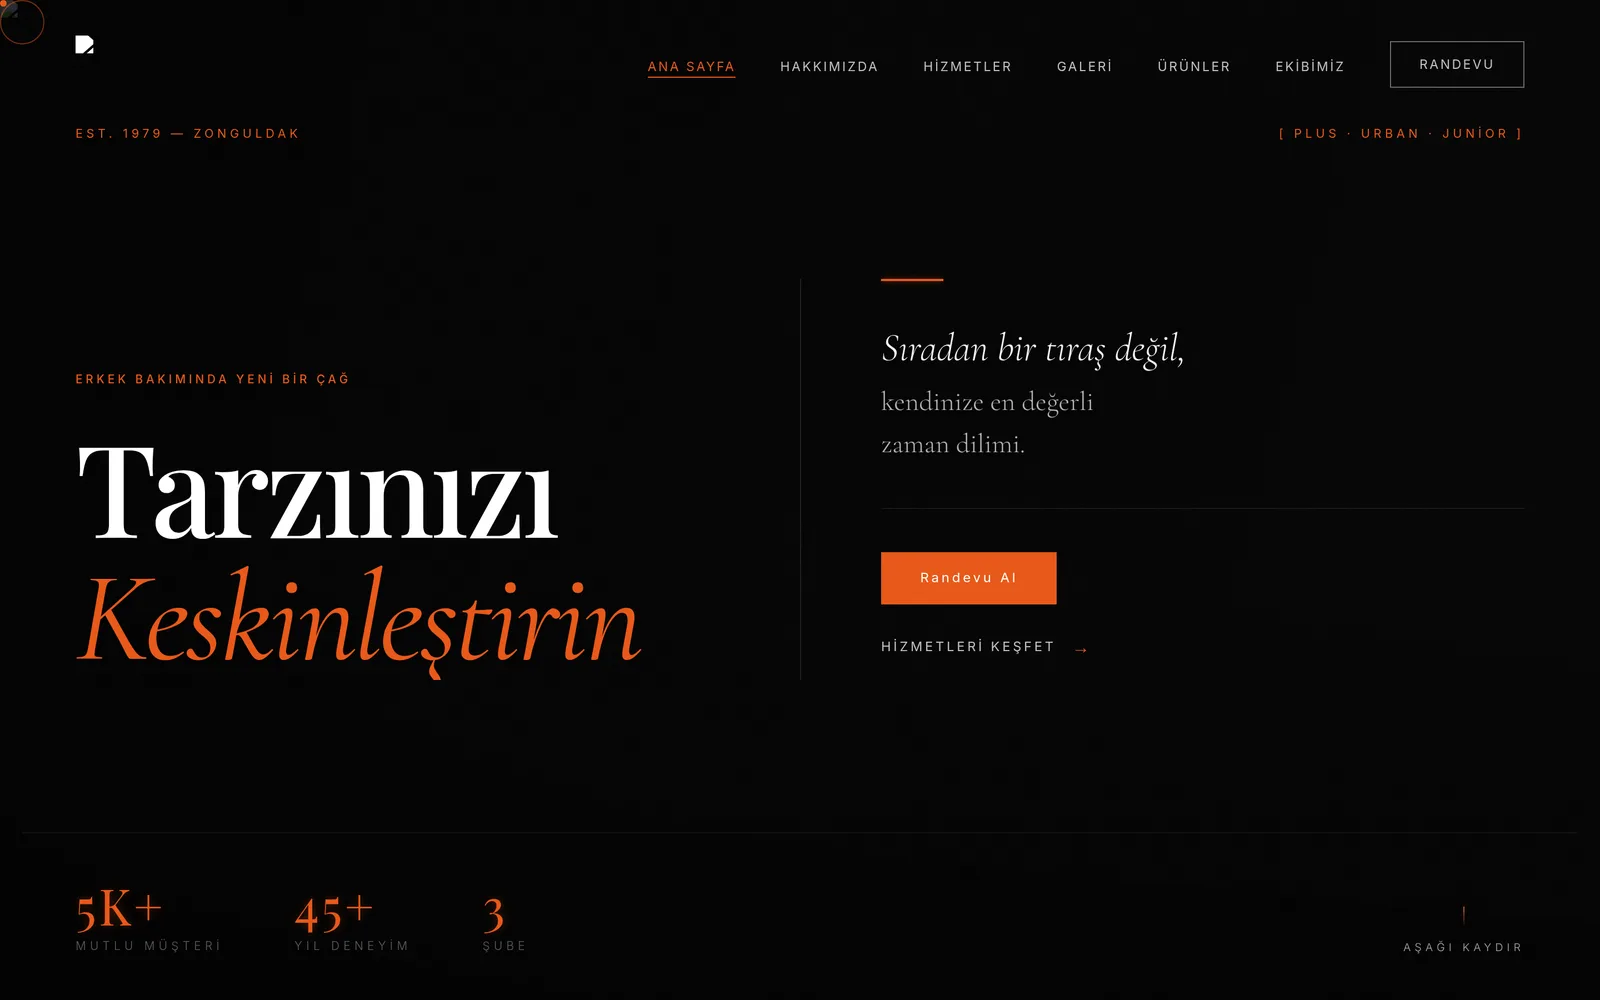
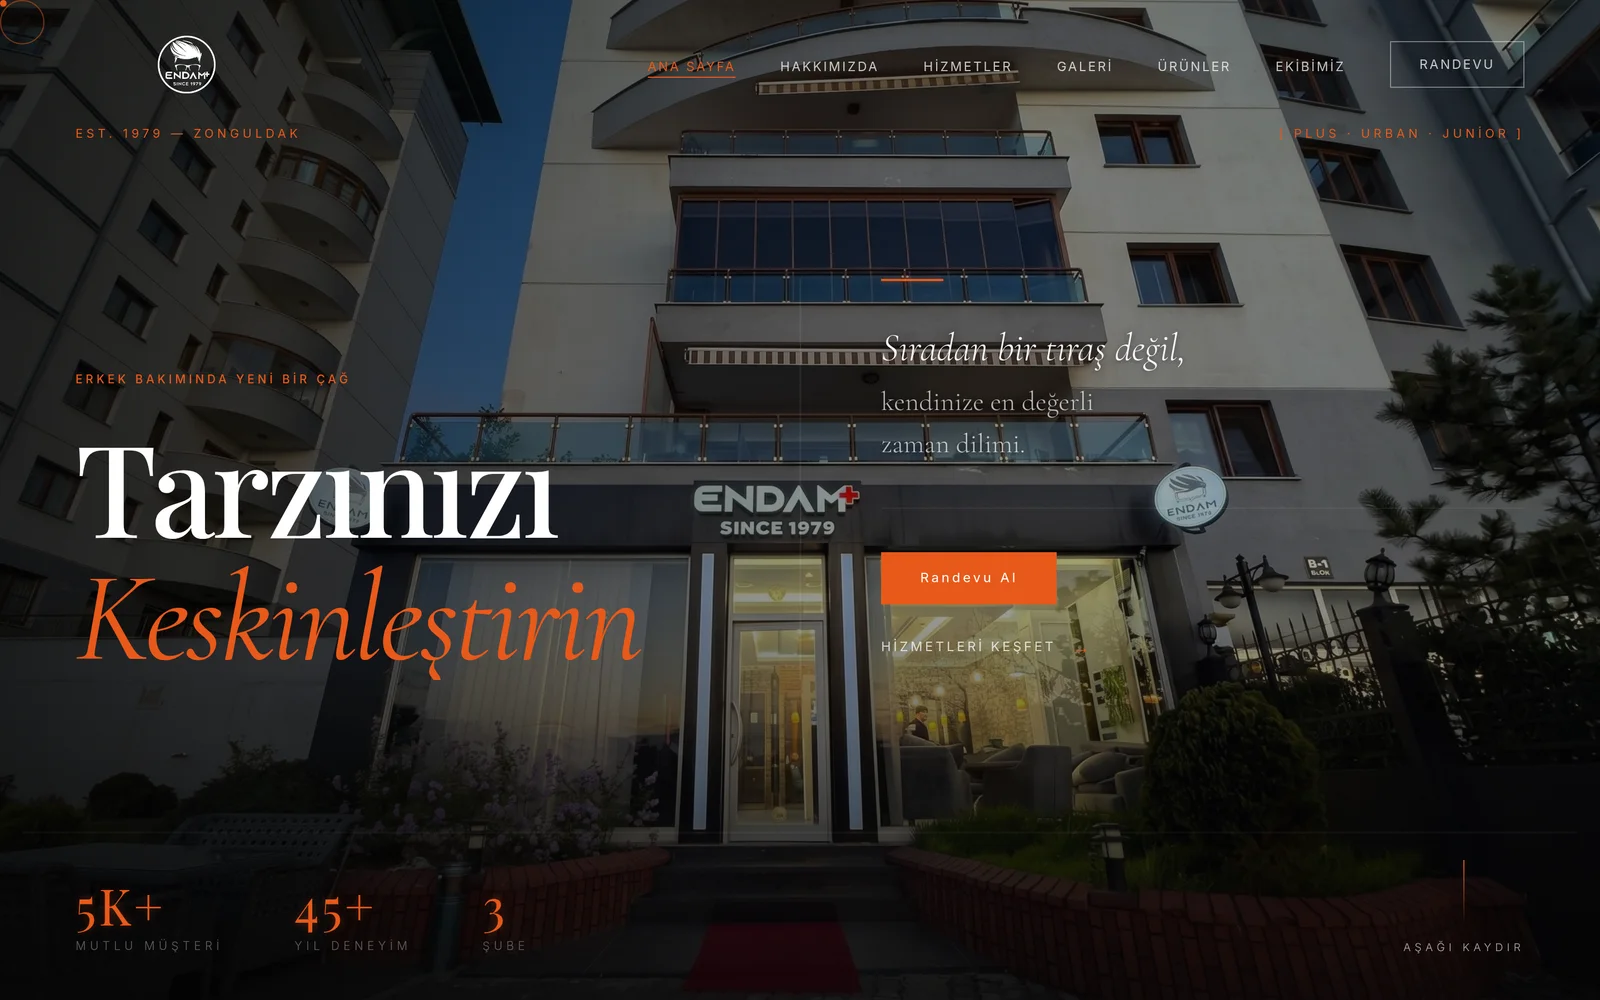
Proje görsellerini tarayıcı çerçevesine al
Ekran görüntüleri doğrudan karta basıldığında farklı oranlar yüzünden
kırpılıyor ve kötü oturuyordu. webbeyaz.com'un yaklaşımı incelendi:
düz ekran görüntüsü değil, siteyi bir cihaz içinde gösteren sunum
kullanıyorlar (object-position da üstten hizalı).

- Ortak BrowserFrame bileşeni: adres çubuğunda projenin alan adı,
  içerik üstten hizalı, ölçüler konteyner birimiyle orantılı ama
  üst sınırlı (min()) — küçük kartta da büyük blokta da dengeli
- Gerçek ekran görüntüleri ve üretilen maketler artık aynı çerçeveyi
  kullanıyor; kartlar birbiriyle uyumlu görünüyor
- Ekran görüntüleri yeniden alındı: Next.js görsel optimizasyonundan
  gelen kırık görseller orijinal dosyalarına yönlendirildi, böylece
  Endamsince'in gerçek hero fotoğrafı ve logosu göründü

Claude-Session: https://claude.ai/code/session_01DTXfWQJ3G7MQ2EoSwWXjPP

diff --git a/components/ProjectMockup.tsx b/components/ProjectMockup.tsx
@@ -1,4 +1,5 @@
 import type { Project } from "@/lib/projects";
+import { BrowserFrame, domainOf } from "./BrowserFrame";
 
 /**
  * Proje ekran görüntüsü yoksa, proje türüne göre stilize bir arayüz
@@ -10,30 +11,25 @@ export function ProjectMockup({ project }: { project: Project }) {
     .split("")
     .reduce((a, c) => a + c.charCodeAt(0), 0);
 
-  if (project.type === "Kişiye Özel Yazılım") return <DashboardMock seed={seed} />;
+  // Mobil tasarım maketi çerçevesiz gösterilir (telefon + palet düzeni)
   if (project.type === "Web Tasarım") return <MobileMock seed={seed} />;
-  return <SiteMock seed={seed} />;
+
+  return (
+    <BrowserFrame label={domainOf(project.url)}>
+      <div className="h-full w-full p-[4%]">
+        {project.type === "Kişiye Özel Yazılım" ? (
+          <DashboardMock seed={seed} />
+        ) : (
+          <SiteMock seed={seed} />
+        )}
+      </div>
+    </BrowserFrame>
+  );
 }
 
 const bar = "rounded-full bg-ink/15";
 const barSoft = "rounded-full bg-ink/[0.08]";
 const block = "rounded-sm bg-ink/[0.06]";
-
-function Chrome({ children }: { children: React.ReactNode }) {
-  return (
-    <div className="flex h-full w-full flex-col bg-paper-2 p-[5%]">
-      <div className="flex items-center gap-1.5 pb-[3.5%]">
-        <span className="h-1.5 w-1.5 rounded-full bg-ink/20" />
-        <span className="h-1.5 w-1.5 rounded-full bg-ink/15" />
-        <span className="h-1.5 w-1.5 rounded-full bg-ink/10" />
-        <span className="ml-2 h-2.5 flex-1 rounded-full bg-white" />
-      </div>
-      <div className="min-h-0 flex-1 overflow-hidden rounded-sm bg-white p-[4%]">
-        {children}
-      </div>
-    </div>
-  );
-}
 
 function TopNav({ accentRight = true }: { accentRight?: boolean }) {
   return (
@@ -58,8 +54,7 @@ function SiteMock({ seed }: { seed: number }) {
   const variant = seed % 3;
 
   return (
-    <Chrome>
-      <div className="flex h-full flex-col gap-[4%]">
+    <div className="flex h-full flex-col gap-[4%]">
         <TopNav accentRight={variant !== 1} />
 
         {variant === 0 && (
@@ -119,7 +114,6 @@ function SiteMock({ seed }: { seed: number }) {
           </>
         )}
       </div>
-    </Chrome>
   );
 }
 
@@ -130,7 +124,6 @@ function DashboardMock({ seed }: { seed: number }) {
   const hot = seed % heights.length;
 
   return (
-    <Chrome>
       <div className="flex h-full gap-[3.5%]">
         {/* kenar menü */}
         <div className="flex w-[20%] flex-col gap-1.5">
@@ -188,7 +181,6 @@ function DashboardMock({ seed }: { seed: number }) {
           </div>
         </div>
       </div>
-    </Chrome>
   );
 }
 

diff --git a/components/BrowserFrame.tsx b/components/BrowserFrame.tsx
@@ -1,0 +1,54 @@
+/**
+ * Proje görsellerini içine alan tarayıcı çerçevesi.
+ *
+ * Ekran görüntüleri farklı oranlarda olabildiği için doğrudan karta
+ * basıldığında kırpılıp kötü oturuyordu. Çerçeve, her görsele aynı
+ * sunumu vererek bunu çözer: içerik hep aynı oranda bir "ekran" içinde
+ * durur ve üstten hizalandığı için sitenin hero bölümü her zaman görünür.
+ *
+ * Ölçüler yüzde ve konteyner birimi (cqi) ile verildiği için çerçeve
+ * küçük kartta da, büyük öne çıkan blokta da orantılı görünür.
+ */
+export function BrowserFrame({
+  label,
+  children,
+  className = "",
+}: {
+  /** Adres çubuğunda görünecek alan adı */
+  label?: string;
+  children: React.ReactNode;
+  className?: string;
+}) {
+  return (
+    <div
+      className={`@container flex h-full w-full flex-col bg-paper-2 p-[4%] ${className}`}
+    >
+      {/* Ölçüler konteynerle orantılı büyür ama bir üst sınırdan sonra
+          sabitlenir; böylece küçük kartta da büyük blokta da dengeli durur. */}
+      <div className="flex shrink-0 items-center gap-[min(1cqi,0.4rem)] pb-[3%]">
+        <span className="h-[min(1.1cqi,0.4rem)] w-[min(1.1cqi,0.4rem)] rounded-full bg-ink/20" />
+        <span className="h-[min(1.1cqi,0.4rem)] w-[min(1.1cqi,0.4rem)] rounded-full bg-ink/15" />
+        <span className="h-[min(1.1cqi,0.4rem)] w-[min(1.1cqi,0.4rem)] rounded-full bg-ink/10" />
+        <span className="ml-[min(1.5cqi,0.6rem)] flex min-w-0 flex-1 items-center justify-center rounded-full bg-white px-[min(2cqi,0.75rem)] py-[min(0.9cqi,0.3rem)]">
+          <span className="truncate text-[min(2.1cqi,0.7rem)] leading-none text-muted">
+            {label ?? ""}
+          </span>
+        </span>
+      </div>
+
+      <div className="min-h-0 flex-1 overflow-hidden rounded-[min(0.8cqi,0.3rem)] bg-white shadow-[0_1cqi_3cqi_-2cqi_rgba(20,20,15,0.35)]">
+        {children}
+      </div>
+    </div>
+  );
+}
+
+/** URL'den adres çubuğunda gösterilecek sade alan adını çıkarır */
+export function domainOf(url?: string) {
+  if (!url) return undefined;
+  try {
+    return new URL(url).hostname.replace(/^www\./, "");
+  } catch {
+    return undefined;
+  }
+}

diff --git a/components/ProjectVisual.tsx b/components/ProjectVisual.tsx
@@ -1,10 +1,12 @@
 import type { Project } from "@/lib/projects";
 import { asset } from "@/lib/asset";
+import { BrowserFrame, domainOf } from "./BrowserFrame";
 import { ProjectMockup } from "./ProjectMockup";
 
 /**
- * Proje görseli. Ekran görüntüsü varsa onu, yoksa markanın diline sadık
- * kalan nötr bir yer tutucu gösterir.
+ * Proje görseli. Ekran görüntüsü varsa tarayıcı çerçevesi içinde,
+ * yoksa proje türüne göre üretilen arayüz çizimini gösterir.
+ * İki durumda da sunum aynı olduğu için kartlar birbiriyle uyumlu durur.
  */
 export function ProjectVisual({
   project,
@@ -17,15 +19,21 @@ export function ProjectVisual({
 }) {
   if (project.image) {
     return (
-      // eslint-disable-next-line @next/next/no-img-element
-      <img
-        src={asset(project.image)}
-        alt={`${project.title} ekran görüntüsü`}
-        loading="lazy"
-        className={`h-full w-full object-cover ${
-          zoomOnHover ? "transition duration-700 group-hover:scale-105" : ""
-        } ${className}`}
-      />
+      <div className={`h-full w-full ${className}`}>
+        <BrowserFrame label={domainOf(project.url)}>
+          {/* eslint-disable-next-line @next/next/no-img-element */}
+          <img
+            src={asset(project.image)}
+            alt={`${project.title} ekran görüntüsü`}
+            loading="lazy"
+            className={`h-full w-full object-cover object-top ${
+              zoomOnHover
+                ? "transition-transform duration-700 group-hover:scale-[1.03]"
+                : ""
+            }`}
+          />
+        </BrowserFrame>
+      </div>
     );
   }
 
